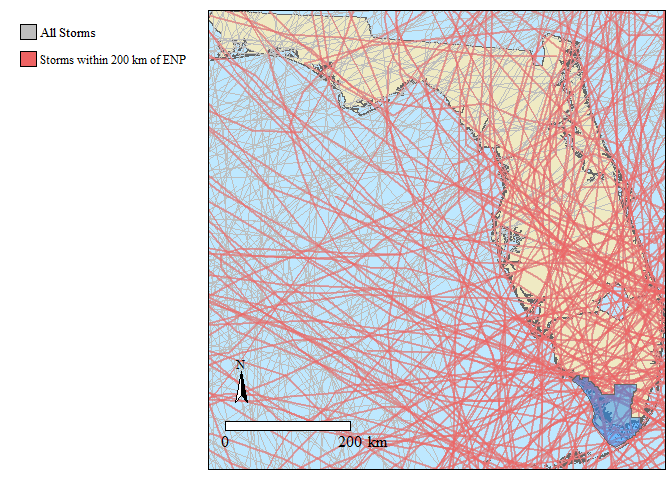
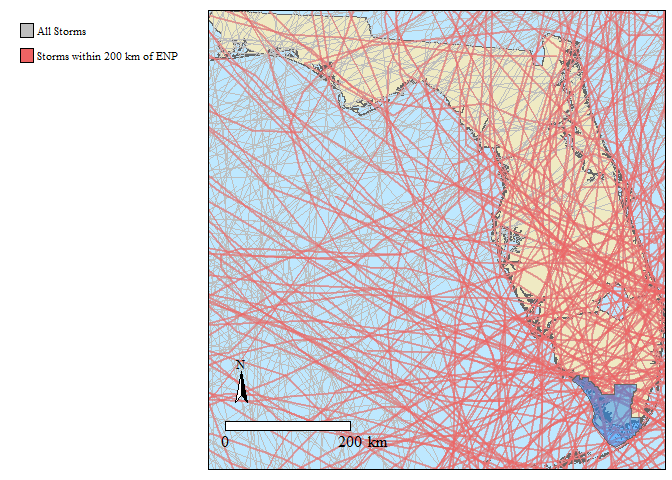
final edits

Changed region(s): [[0.0312, 0.0312, 0.2812, 0.1562]]

diff --git a/_knitr/2019-01-16-FCELTER.html b/_knitr/2019-01-16-FCELTER.html
@@ -89,7 +89,6 @@ Current and expected (estimated) cumulative stormwater treatment area (STA) and 
 <div id="hurricanes" class="section level4">
 <h4>Hurricanes</h4>
 <p>Using data from the National Oceanic and Atmospheric Administration (<a href="https://www.noaa.gov/" target="_blank">NOAA</a>) the occurrence of hurricanes within 200 km of ENP is frequent. This frequency of return and intensity can play a significant role in how ecosystems within the Everglades region function.</p>
-<pre><code>## Legend labels were too wide. The labels have been resized to 0.72. Increase legend.width (argument of tm_layout) to make the legend wider and therefore the labels larger.</code></pre>
 <div class="figure" style="text-align: center">
 <img src="2019-01-16-FCELTER_files/figure-html/hurricane_map-1.png" alt="Atlantic Basin Hurricane and Tropical Storm center lines between 1851 and 2017." width="100%" height="100%" />
 <p class="caption">
@@ -141,7 +140,7 @@ Annual total rainfall (area-weighted) and Standardized Rainfall Anomaly Index ac
 </div>
 <div id="wholistic-system-condition" class="section level2">
 <h2>Wholistic system condition</h2>
-<p>This post touched on a limited number of external drivers (i.e. sea-level rise, other restoration time-lines, hydrogeologic changes, invasive species, etc.) that can potentially influence internal processes of an ecosystem. As we learn more these external drivers will be updated. Understanding of these external driver are vitally important when interpreting the internal processes. Including in the plot below are the different FCE <a href="http://fcelter.fiu.edu/research/?p=history" target="_blank">study periods</a>, each phase focused on something different within the ecosystem relative to the long-term understanding of the ecosystem.</p>
+<p>This post touched on a limited number of external drivers (i.e. sea-level rise, other restoration time-lines, hydrogeologic changes, invasive species, etc.) that can potentially influence internal processes of an ecosystem. As we learn more these external drivers will be updated. Understanding of these external driver are vitally important when interpreting the internal processes. Including in the plot below are the different FCE <a href="http://fcelter.fiu.edu/research/?p=history" target="_blank">study periods</a>, each phase focused on something different within the ecosystem relative to the long-term understanding of the ecosystem. How do we move forward studying long-term ecological changes without understanding how external drivers influence internal processes? Modelers would call this defining the boundary condition. What other drives would be vital to understand in the context of ecological shifts in an ever changing dynamics world?</p>
 <div class="figure" style="text-align: center">
 <img src="2019-01-16-FCELTER_files/figure-html/system_plot-1.png" alt="Florida Coastal Everglades Long Term Ecological Research (FCE LTER) site proposal periods relative to southern Everglades (i.e. Water Conservation Area 3 and Southern Dade Conveyance System) water management, Stormwater Treatment Area (STA) operational periods, Tropical activity, high water events and drought conditions. Stormwater Treatment Area operational periods indicate when each facility became operational (Data Source: Chimney 2018). Hurricane or tropical storm occurrence within the vicinity (i.e. 200 km) of Everglades National Park (Data Source: https://coast.noaa.gov/hurricanes), point size indicate number of storms. Periods of high water conditions within the Everglades Ecosystem as indicated by north WCA-3A stage (and regualatory authorizations). Drought years relative to long-term annual rainfall record."  />
 <p class="caption">

diff --git a/_posts/2019-01-16-external-drivers-that-can-influence-internal-processes.md b/_posts/2019-01-16-external-drivers-that-can-influence-internal-processes.md
@@ -60,7 +60,6 @@ Current and expected (estimated) cumulative stormwater treatment area (STA) and 
 <div id="hurricanes" class="section level4">
 <h4>Hurricanes</h4>
 <p>Using data from the National Oceanic and Atmospheric Administration (<a href="https://www.noaa.gov/" target="_blank">NOAA</a>) the occurrence of hurricanes within 200 km of ENP is frequent. This frequency of return and intensity can play a significant role in how ecosystems within the Everglades region function.</p>
-<pre><code>## Legend labels were too wide. The labels have been resized to 0.72. Increase legend.width (argument of tm_layout) to make the legend wider and therefore the labels larger.</code></pre>
 <div class="figure" style="text-align: center">
 <img src="{{ site.url }}{{ site.baseurl }}/knitr_files/2019-01-16-FCELTER_files/figure-html/hurricane_map-1.png" alt="Atlantic Basin Hurricane and Tropical Storm center lines between 1851 and 2017." width="100%" height="100%" />
 <p class="caption">
@@ -112,7 +111,7 @@ Annual total rainfall (area-weighted) and Standardized Rainfall Anomaly Index ac
 </div>
 <div id="wholistic-system-condition" class="section level2">
 <h2>Wholistic system condition</h2>
-<p>This post touched on a limited number of external drivers (i.e. sea-level rise, other restoration time-lines, hydrogeologic changes, invasive species, etc.) that can potentially influence internal processes of an ecosystem. As we learn more these external drivers will be updated. Understanding of these external driver are vitally important when interpreting the internal processes. Including in the plot below are the different FCE <a href="http://fcelter.fiu.edu/research/?p=history" target="_blank">study periods</a>, each phase focused on something different within the ecosystem relative to the long-term understanding of the ecosystem.</p>
+<p>This post touched on a limited number of external drivers (i.e. sea-level rise, other restoration time-lines, hydrogeologic changes, invasive species, etc.) that can potentially influence internal processes of an ecosystem. As we learn more these external drivers will be updated. Understanding of these external driver are vitally important when interpreting the internal processes. Including in the plot below are the different FCE <a href="http://fcelter.fiu.edu/research/?p=history" target="_blank">study periods</a>, each phase focused on something different within the ecosystem relative to the long-term understanding of the ecosystem. How do we move forward studying long-term ecological changes without understanding how external drivers influence internal processes? Modelers would call this defining the boundary condition. What other drives would be vital to understand in the context of ecological shifts in an ever changing dynamics world?</p>
 <div class="figure" style="text-align: center">
 <img src="{{ site.url }}{{ site.baseurl }}/knitr_files/2019-01-16-FCELTER_files/figure-html/system_plot-1.png" alt="Florida Coastal Everglades Long Term Ecological Research (FCE LTER) site proposal periods relative to southern Everglades (i.e. Water Conservation Area 3 and Southern Dade Conveyance System) water management, Stormwater Treatment Area (STA) operational periods, Tropical activity, high water events and drought conditions. Stormwater Treatment Area operational periods indicate when each facility became operational (Data Source: Chimney 2018). Hurricane or tropical storm occurrence within the vicinity (i.e. 200 km) of Everglades National Park (Data Source: https://coast.noaa.gov/hurricanes), point size indicate number of storms. Periods of high water conditions within the Everglades Ecosystem as indicated by north WCA-3A stage (and regualatory authorizations). Drought years relative to long-term annual rainfall record."  />
 <p class="caption">
